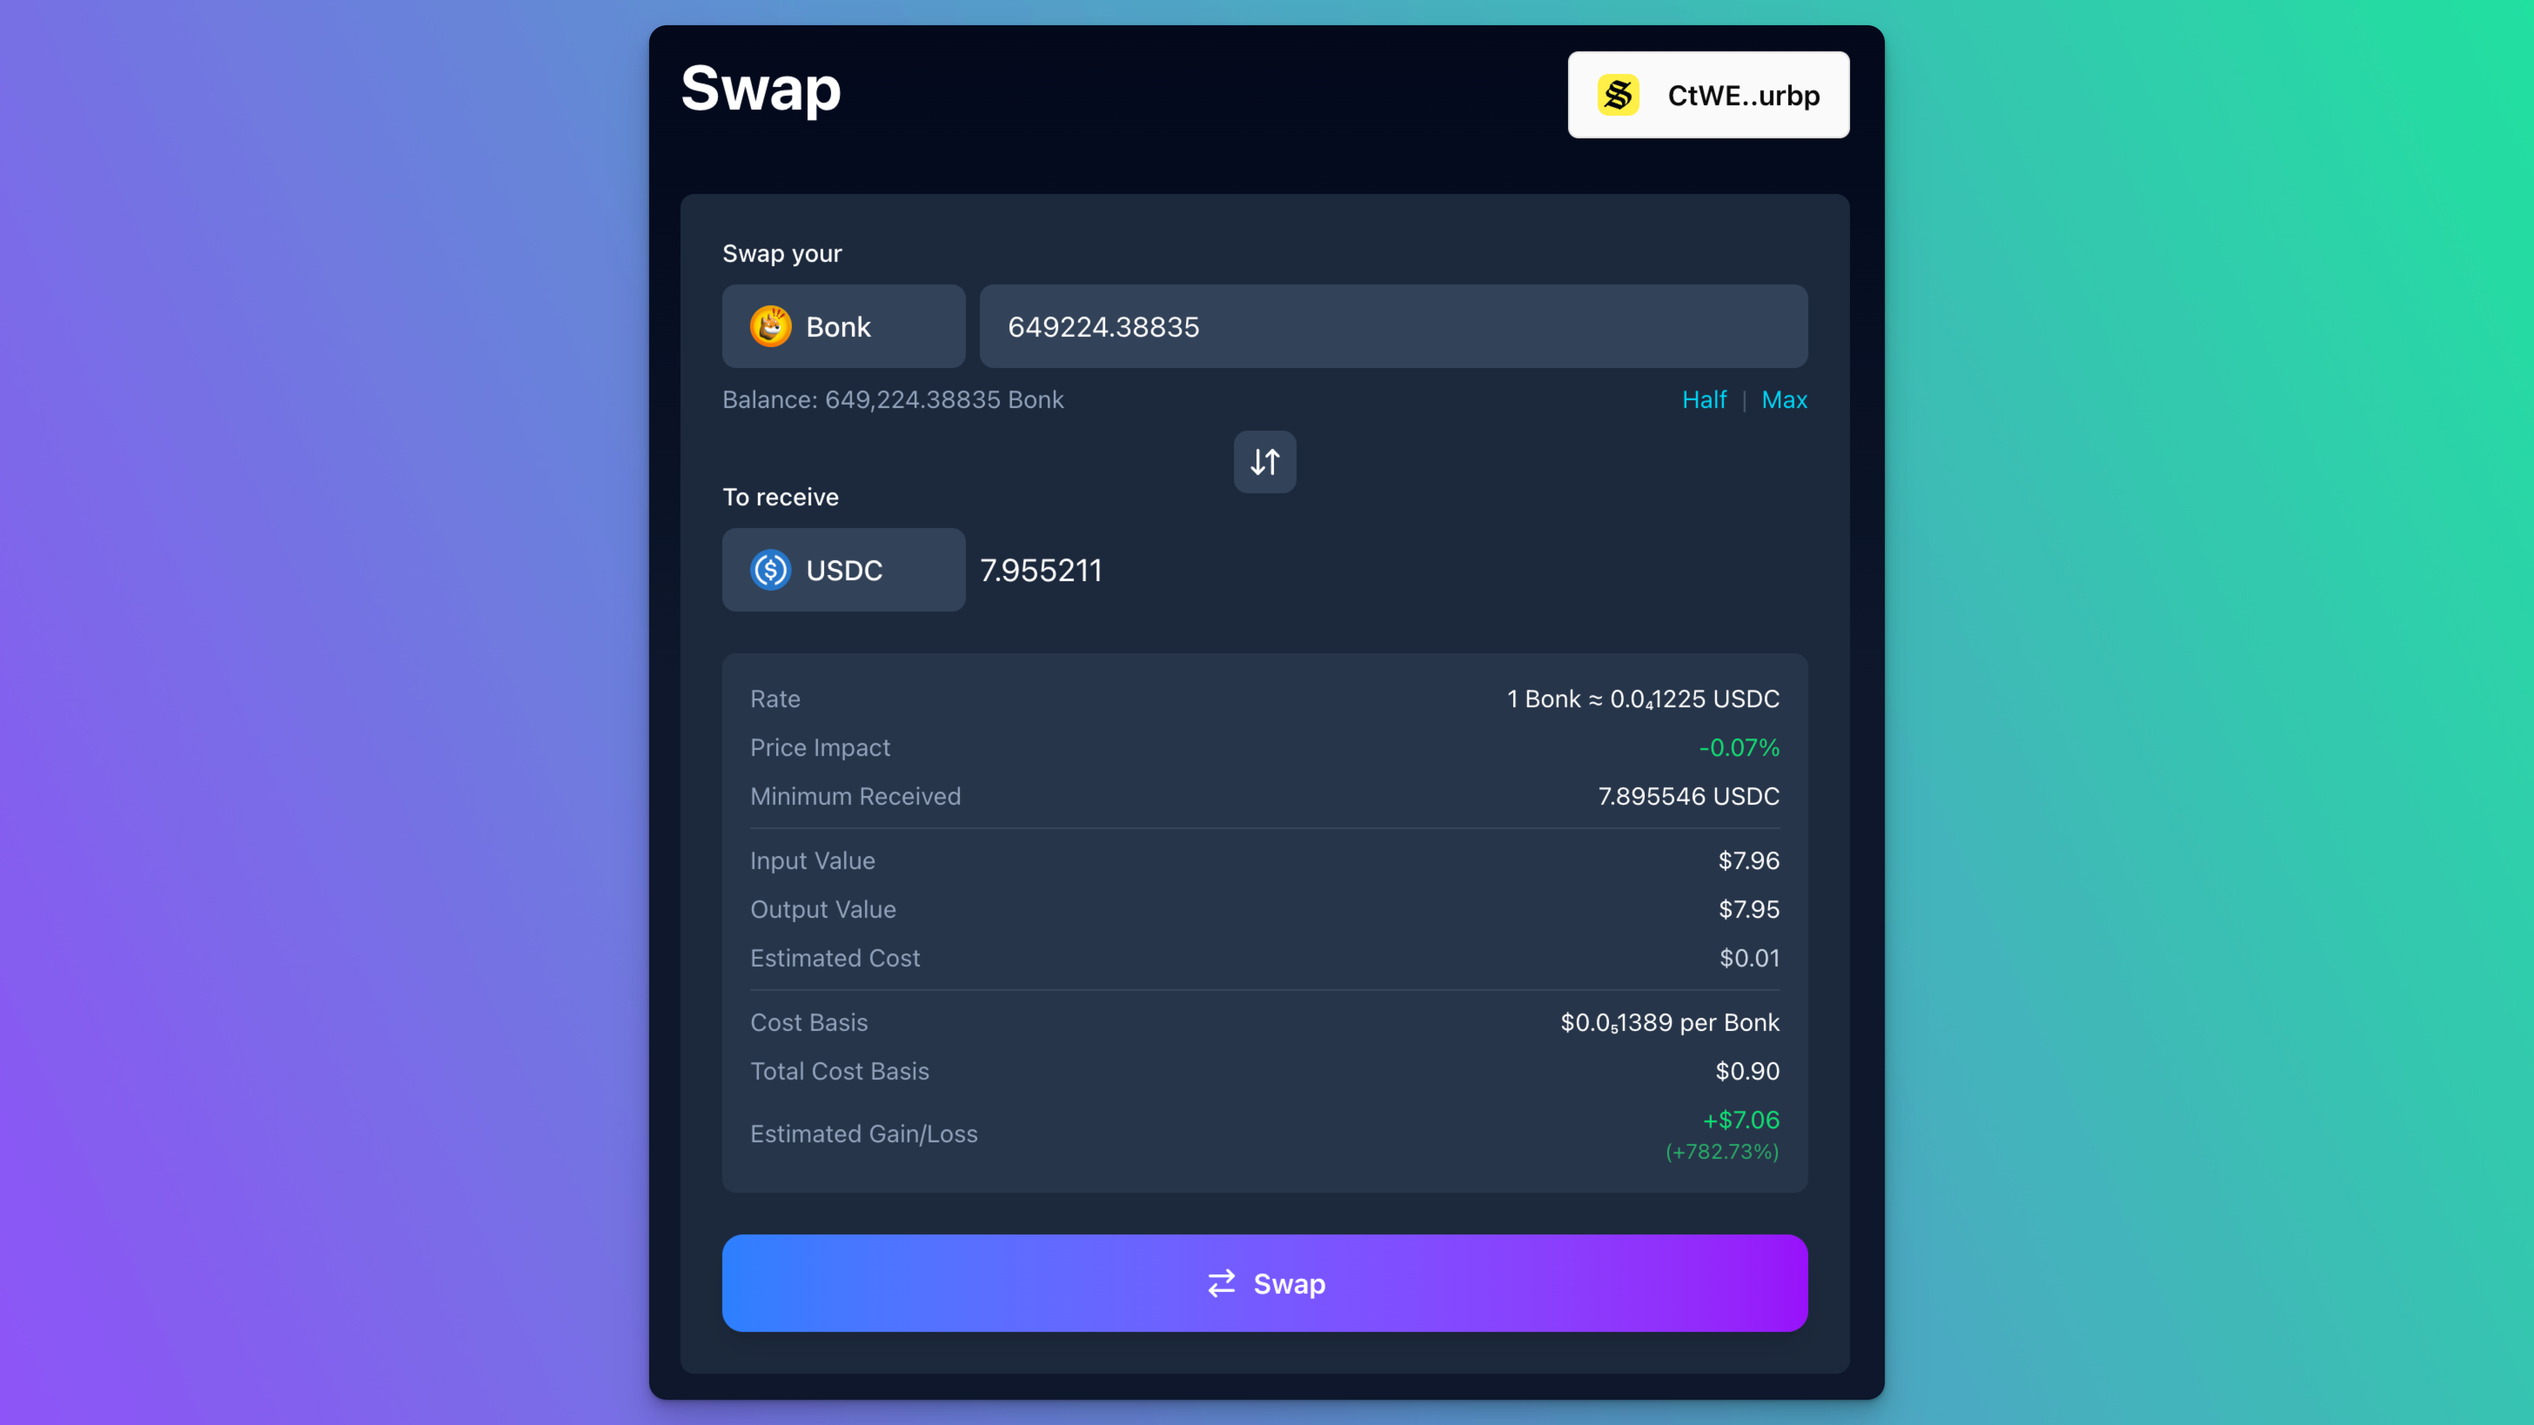
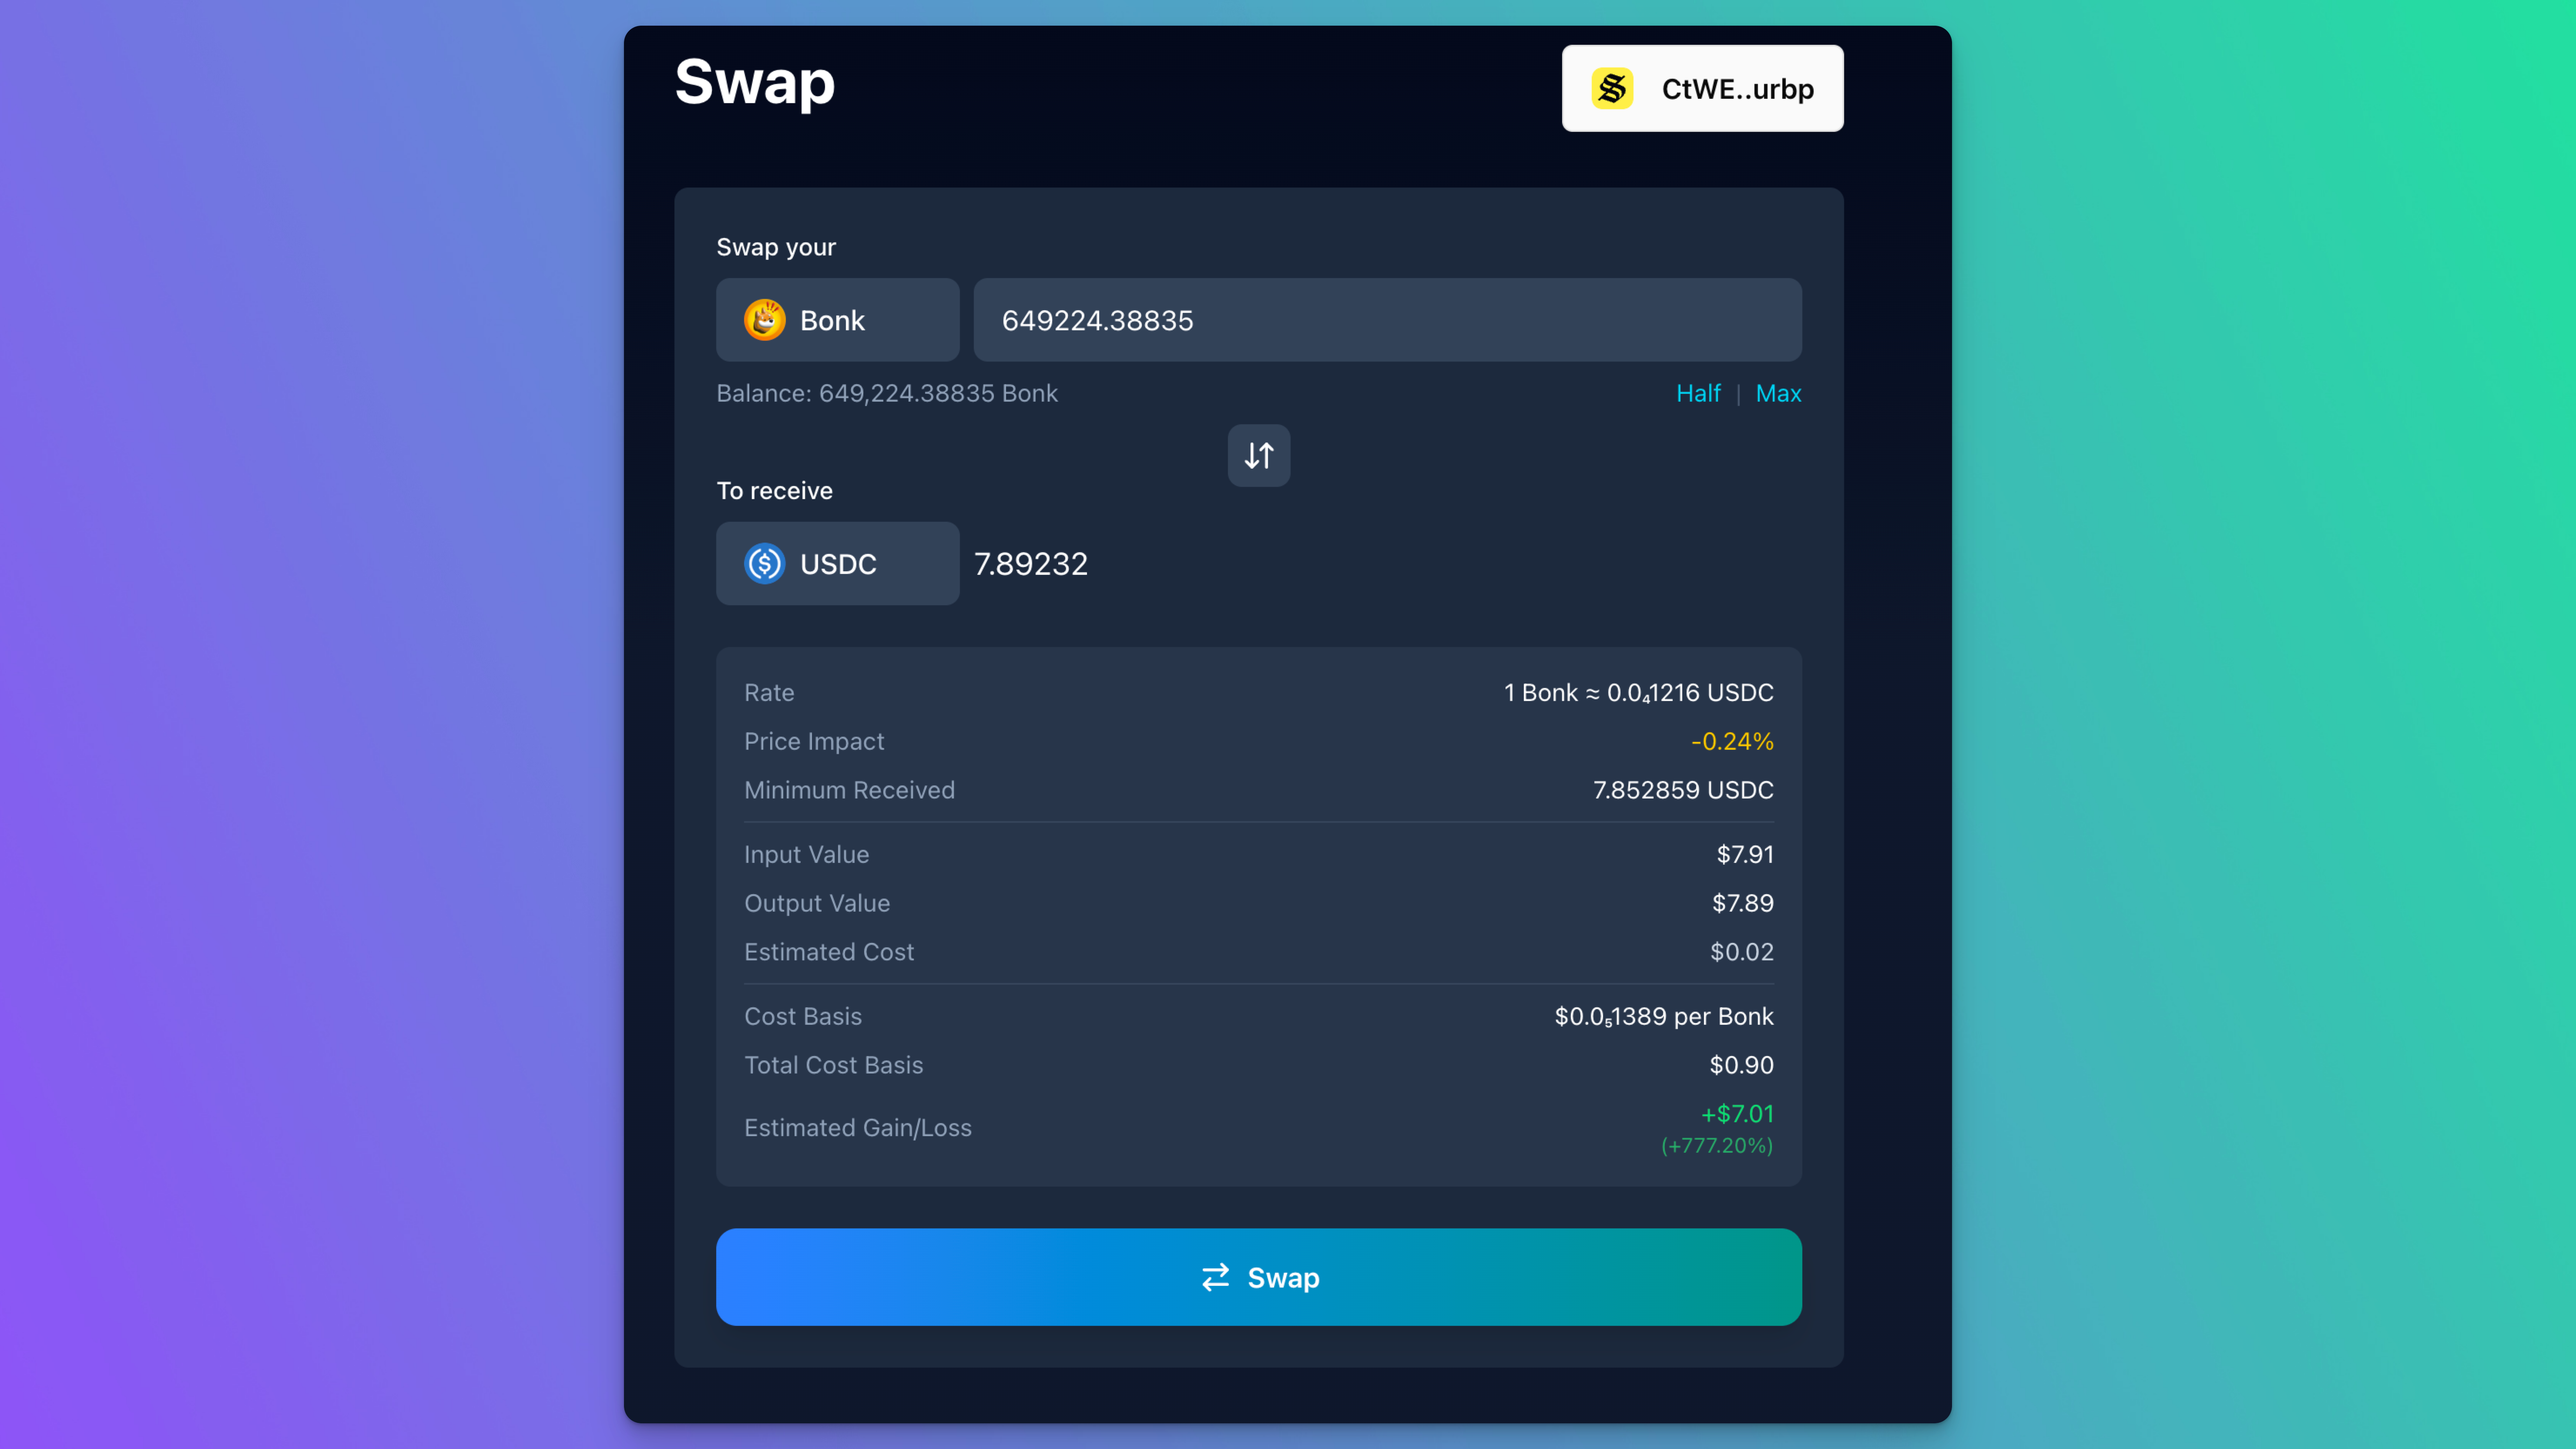
Improve mobile + swap button styles

Changed region(s): [[0.2188, 0.0, 0.7812, 0.9963]]

diff --git a/src/routes/index.tsx b/src/routes/index.tsx
@@ -191,9 +191,9 @@ function SwapPage() {
 	}, [inputTokenCostBasis, quote, debouncedAmount]);
 
 	return (
-		<div className="min-h-screen p-8">
+		<div className="min-h-screen p-4 sm:p-8">
 			<div className="max-w-2xl mx-auto">
-				<div className="flex justify-between items-start mb-8">
+				<div className="flex justify-between items-start mb-4 sm:mb-8">
 					<div>
 						<h1 className="text-4xl font-bold mb-2">Swap</h1>
 					</div>
@@ -207,7 +207,7 @@ function SwapPage() {
 					}}
 					noValidate
 				>
-					<div className="bg-slate-800 rounded-lg p-6">
+					<div className="bg-slate-800 rounded-lg p-4 sm:p-6">
 						{/* Input Token */}
 						<div className="mb-4">
 							<div className="block text-sm font-medium mb-2">Swap your</div>
@@ -216,7 +216,7 @@ function SwapPage() {
 									ref={inputTokenButtonRef}
 									type="button"
 									onClick={() => setSelectMode("input")}
-									className="flex items-center gap-2 px-4 py-3 bg-slate-700 hover:bg-slate-600 rounded-lg font-medium transition-colors min-w-[140px]"
+									className="flex items-center gap-2 px-4 py-3 bg-slate-700 hover:bg-slate-600 rounded-lg font-medium transition-colors min-w-[120px] sm:min-w-[140px]"
 								>
 									{inputToken ? (
 										<>
@@ -240,7 +240,7 @@ function SwapPage() {
 									onChange={(e) => setAmount(e.target.value)}
 									onWheel={(e) => e.currentTarget.blur()}
 									placeholder="0.00"
-									className={`flex-1 px-4 py-3 bg-slate-700 rounded-lg focus:outline-none focus:ring-2 ${
+									className={`flex-1 min-w-0 px-4 py-3 bg-slate-700 rounded-lg focus:outline-none focus:ring-2 ${
 										isAmountExceedingBalance
 											? "ring-2 ring-red-500 focus:ring-red-500"
 											: "focus:ring-cyan-500"
@@ -299,7 +299,7 @@ function SwapPage() {
 									ref={outputTokenButtonRef}
 									type="button"
 									onClick={() => setSelectMode("output")}
-									className="flex items-center gap-2 px-4 py-3 bg-slate-700 hover:bg-slate-600 rounded-lg font-medium transition-colors min-w-[140px]"
+									className="flex items-center gap-2 px-4 py-3 bg-slate-700 hover:bg-slate-600 rounded-lg font-medium transition-colors min-w-[120px] sm:min-w-[140px]"
 								>
 									{outputToken ? (
 										<>
@@ -333,7 +333,7 @@ function SwapPage() {
 						{/* Quote details */}
 						{quote && (
 							<>
-								<div className="mt-6 p-4 bg-slate-700/50 rounded-lg space-y-2 text-sm">
+								<div className="mt-6 p-3 sm:p-4 bg-slate-700/50 rounded-lg space-y-2 text-sm">
 									<div className="flex justify-between">
 										<span className="text-slate-400">Rate</span>
 										<span>

diff --git a/src/routes/cost-basis.tsx b/src/routes/cost-basis.tsx
@@ -344,7 +344,7 @@ function CostBasisPage() {
 	};
 
 	return (
-		<div className="min-h-screen p-8">
+		<div className="min-h-screen p-4 sm:p-8">
 			<div className="max-w-4xl mx-auto">
 				<div className="flex items-center justify-between mb-2">
 					<h1 className="text-4xl font-bold">Cost Basis</h1>
@@ -410,7 +410,7 @@ function CostBasisPage() {
 				)}
 
 				{savedCostBasis.length > 0 && (
-					<div className="bg-slate-800 rounded-lg p-6 mb-8">
+					<div className="bg-slate-800 rounded-lg p-4 sm:p-6 mb-4 sm:mb-8">
 						<h2 className="text-xl font-semibold mb-4">Saved</h2>
 						<div className="overflow-x-auto">
 							<table className="w-full">
@@ -489,7 +489,7 @@ function CostBasisPage() {
 				<h2 className="text-2xl font-semibold mb-4">Add New</h2>
 
 				<form onSubmit={handleFormSubmit} noValidate>
-					<div className="bg-slate-800 rounded-lg p-6 mb-6">
+					<div className="bg-slate-800 rounded-lg p-4 sm:p-6 mb-4 sm:mb-6">
 						<div className="block text-sm font-medium mb-2">Select Token</div>
 
 						{selectedToken ? (

diff --git a/src/components/SwapButton.tsx b/src/components/SwapButton.tsx
@@ -127,7 +127,7 @@ function SwapButtonInner({ account, transaction, requestId }: Props) {
 				type="button"
 				onClick={handleSwap}
 				disabled={isExecuting}
-				className="w-full py-4 px-6 bg-gradient-to-r from-blue-500 to-purple-600 hover:from-blue-600 hover:to-purple-700 text-white font-semibold rounded-xl transition-all duration-200 flex items-center justify-center gap-2 shadow-lg hover:shadow-xl active:scale-[0.98] disabled:opacity-50 disabled:cursor-not-allowed disabled:active:scale-100"
+				className="w-full py-4 px-6 bg-gradient-to-r from-blue-500 to-teal-600 hover:from-blue-600 hover:to-teal-700 text-white font-semibold rounded-xl transition-all duration-200 flex items-center justify-center gap-2 shadow-lg hover:shadow-xl active:scale-[0.98] disabled:opacity-50 disabled:cursor-not-allowed disabled:active:scale-100"
 			>
 				{isExecuting ? (
 					<>
